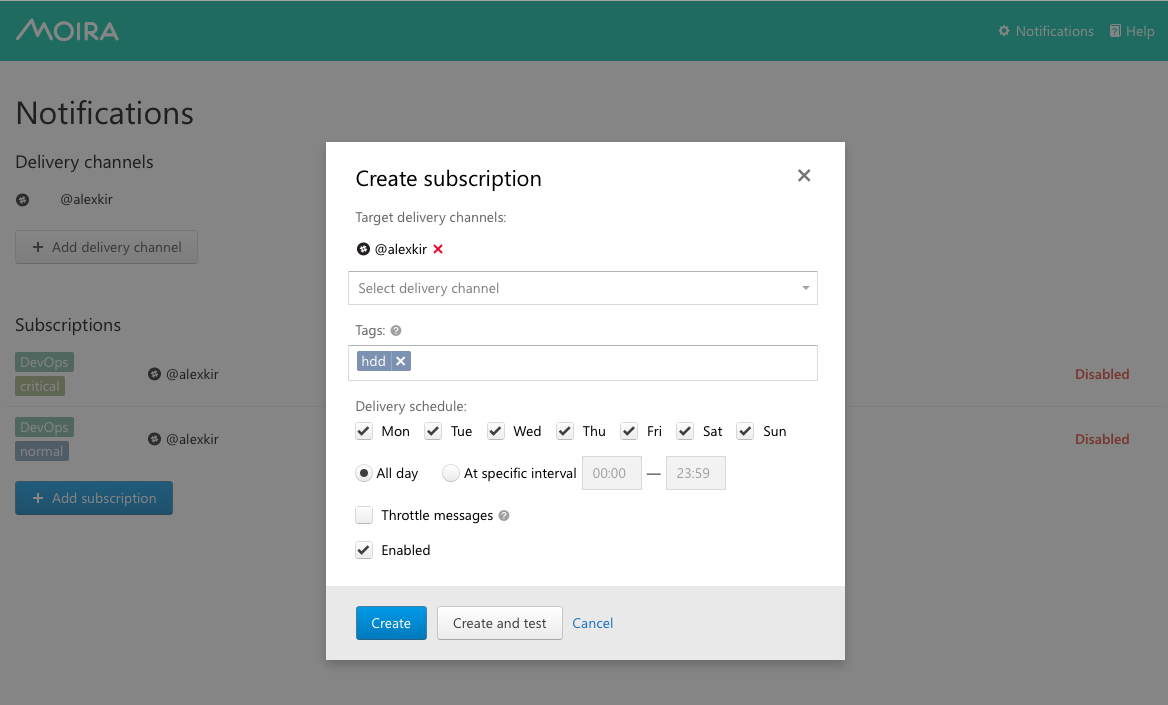
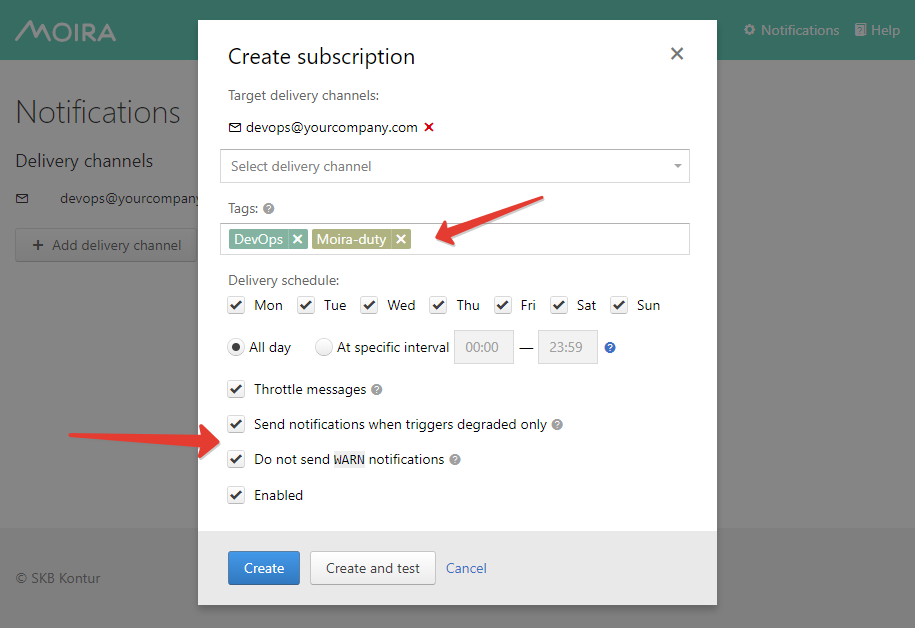
Remove pseudo tags (#24)
* Update subscriptions.rst

* add examples

* Update subscriptions.rst

diff --git a/source/user_guide/subscriptions.rst b/source/user_guide/subscriptions.rst
@@ -24,25 +24,46 @@ Once you have at least one channel, you can create a subscription. Press ``+ Add
 Tags
 ----
 
-You will receive notifications from triggers with these tags. Note that a trigger must contain *all*
-of the subscription tags to match. For example, if you create a subscription for ``tag1``, ``tag2``,
-you will receive notifications from trigger with ``tag1``, ``tag2``, ``tag3``, but not from trigger
-with ``tag1`` only.
+Add required tags into subscription to receive notifications from triggers with these tags.
 
-``WARN`` and ``ERROR`` are special pseudo-tags that match only events with corresponding level. For example, you may wish to subscribe your Pushover account only to ERROR-level notifications.
+Matching rules are:
 
-``DEGRADATION`` is a special pseudo-tag that match any event, where trigger's state degraded, e.g:
+- If subscription has only one tag, you will receive notifications from any trigger with this tag.
+
+  - Create Triggger1 with tags: ``["DevOps", "Moira-duty"]``
+  - Create Triggger2 with tags: ``["DevOps"]``
+  - Create Subscription1 with tags: ``["DevOps"]``
+    
+    By using Subscription1 you will receive events for both Triggger1 and Triggger2 
+
+- If subscription has multiple tags, you will receive notifications only from triggers which include all this tags.
+
+  - Create Subscription2 with tags: ``["DevOps", "Moira-duty"]``
+  
+    By using Subscription2 you will receive events only for Trigger1
+
+Ignore specific states transitions
+----------------------------------
+
+You also can reduce number of notifications ignoring unnecessary event. For this purpose use following check boxes:
+
+- Send notifications when triggers degraded only
+
+  Only following states transitions will require notifications:
 
   - ``OK`` |rarr| ``WARN``
-  - ``WARN`` |rarr| ``ERROR``
-  - ``OK`` |rarr| ``NODATA``
-
-In addition to ``DEGRADATION``, a special ``HIGH DEGRADATION`` pseudo-tag will be added for the following events:
-
   - ``OK`` |rarr| ``ERROR``
   - ``OK`` |rarr| ``NODATA``
+  - ``WARN`` |rarr| ``ERROR``
   - ``WARN`` |rarr| ``NODATA``
   - ``ERROR`` |rarr| ``NODATA``
+
+- Do not send WARN notifications
+
+  Following states transitions will be ignored:
+
+  - ``OK`` |rarr| ``WARN``
+  - ``WARN`` |rarr| ``OK``
 
 
 Create and Test
